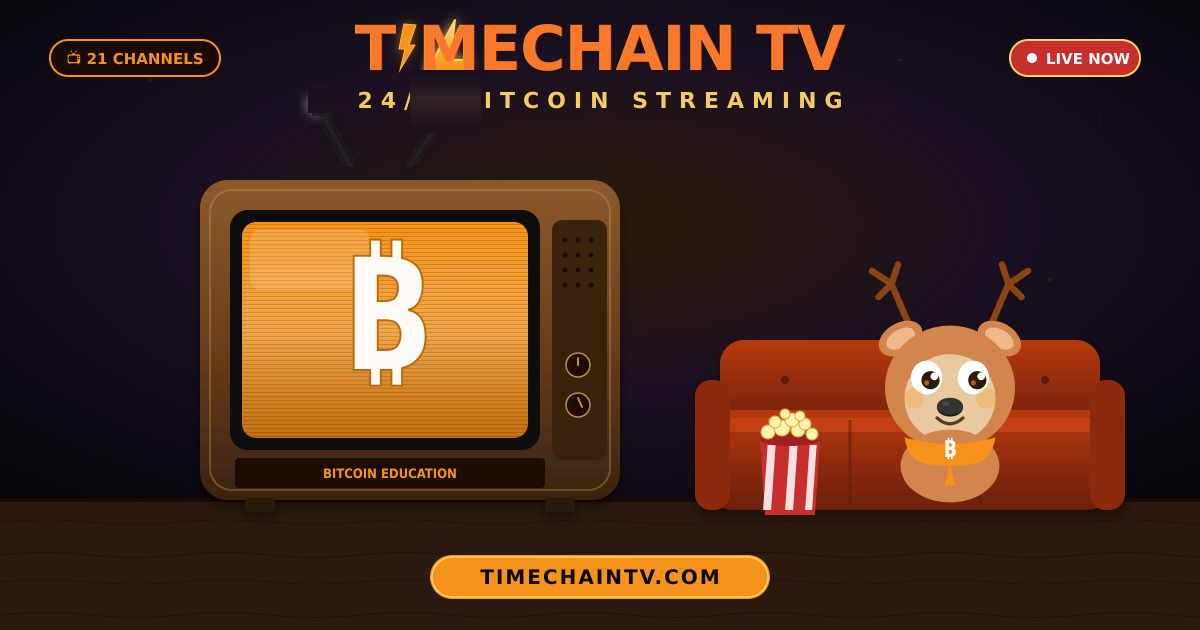
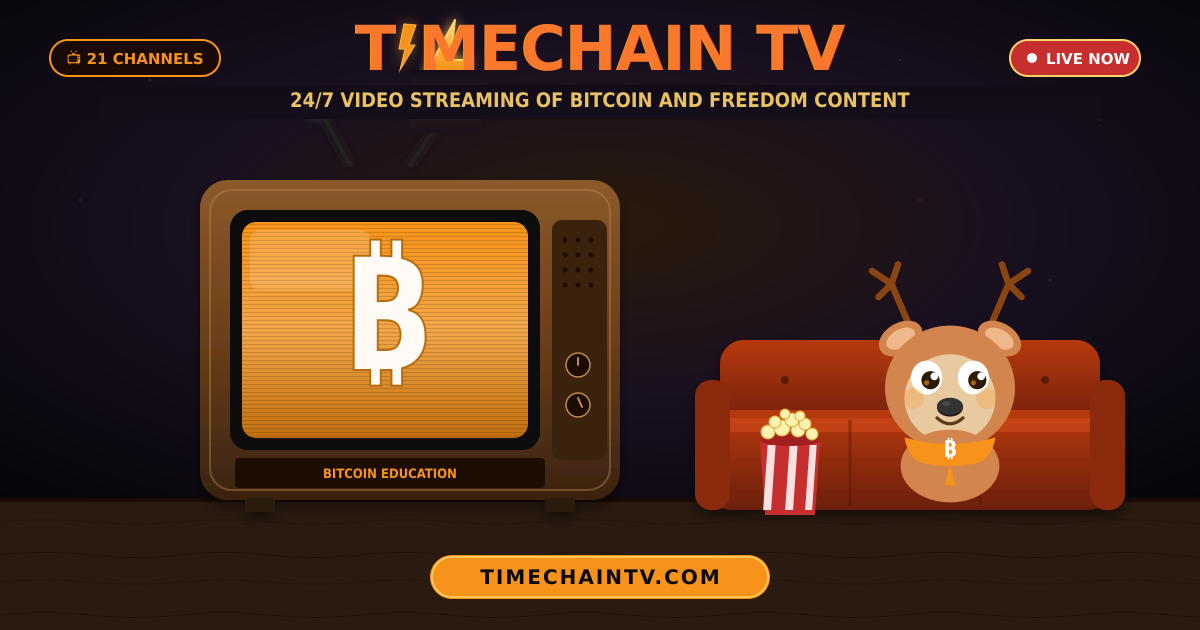
TCTV preview image: update subtitle text to '24/7 VIDEO STREAMING OF BITCOIN AND FREEDOM CONTENT'. Also fully erases any remaining yellow ⚡ behind the M that was still visible in the live version.

Changed region(s): [[0.2467, 0.1206, 0.7708, 0.181]]

diff --git a/sw.js b/sw.js
@@ -1,6 +1,6 @@
 // Bitcoin Education Archive - Service Worker v15
 // [AUDIT FIX P7/B10] Expanded pre-cache and larger image cache
-const CACHE_NAME = 'btc-archive-v641';
+const CACHE_NAME = 'btc-archive-v642';
 const IMG_CACHE = 'btc-images-v2';
 const MAX_IMG_CACHE = 800; // [AUDIT FIX P7] Increased from 200
 
